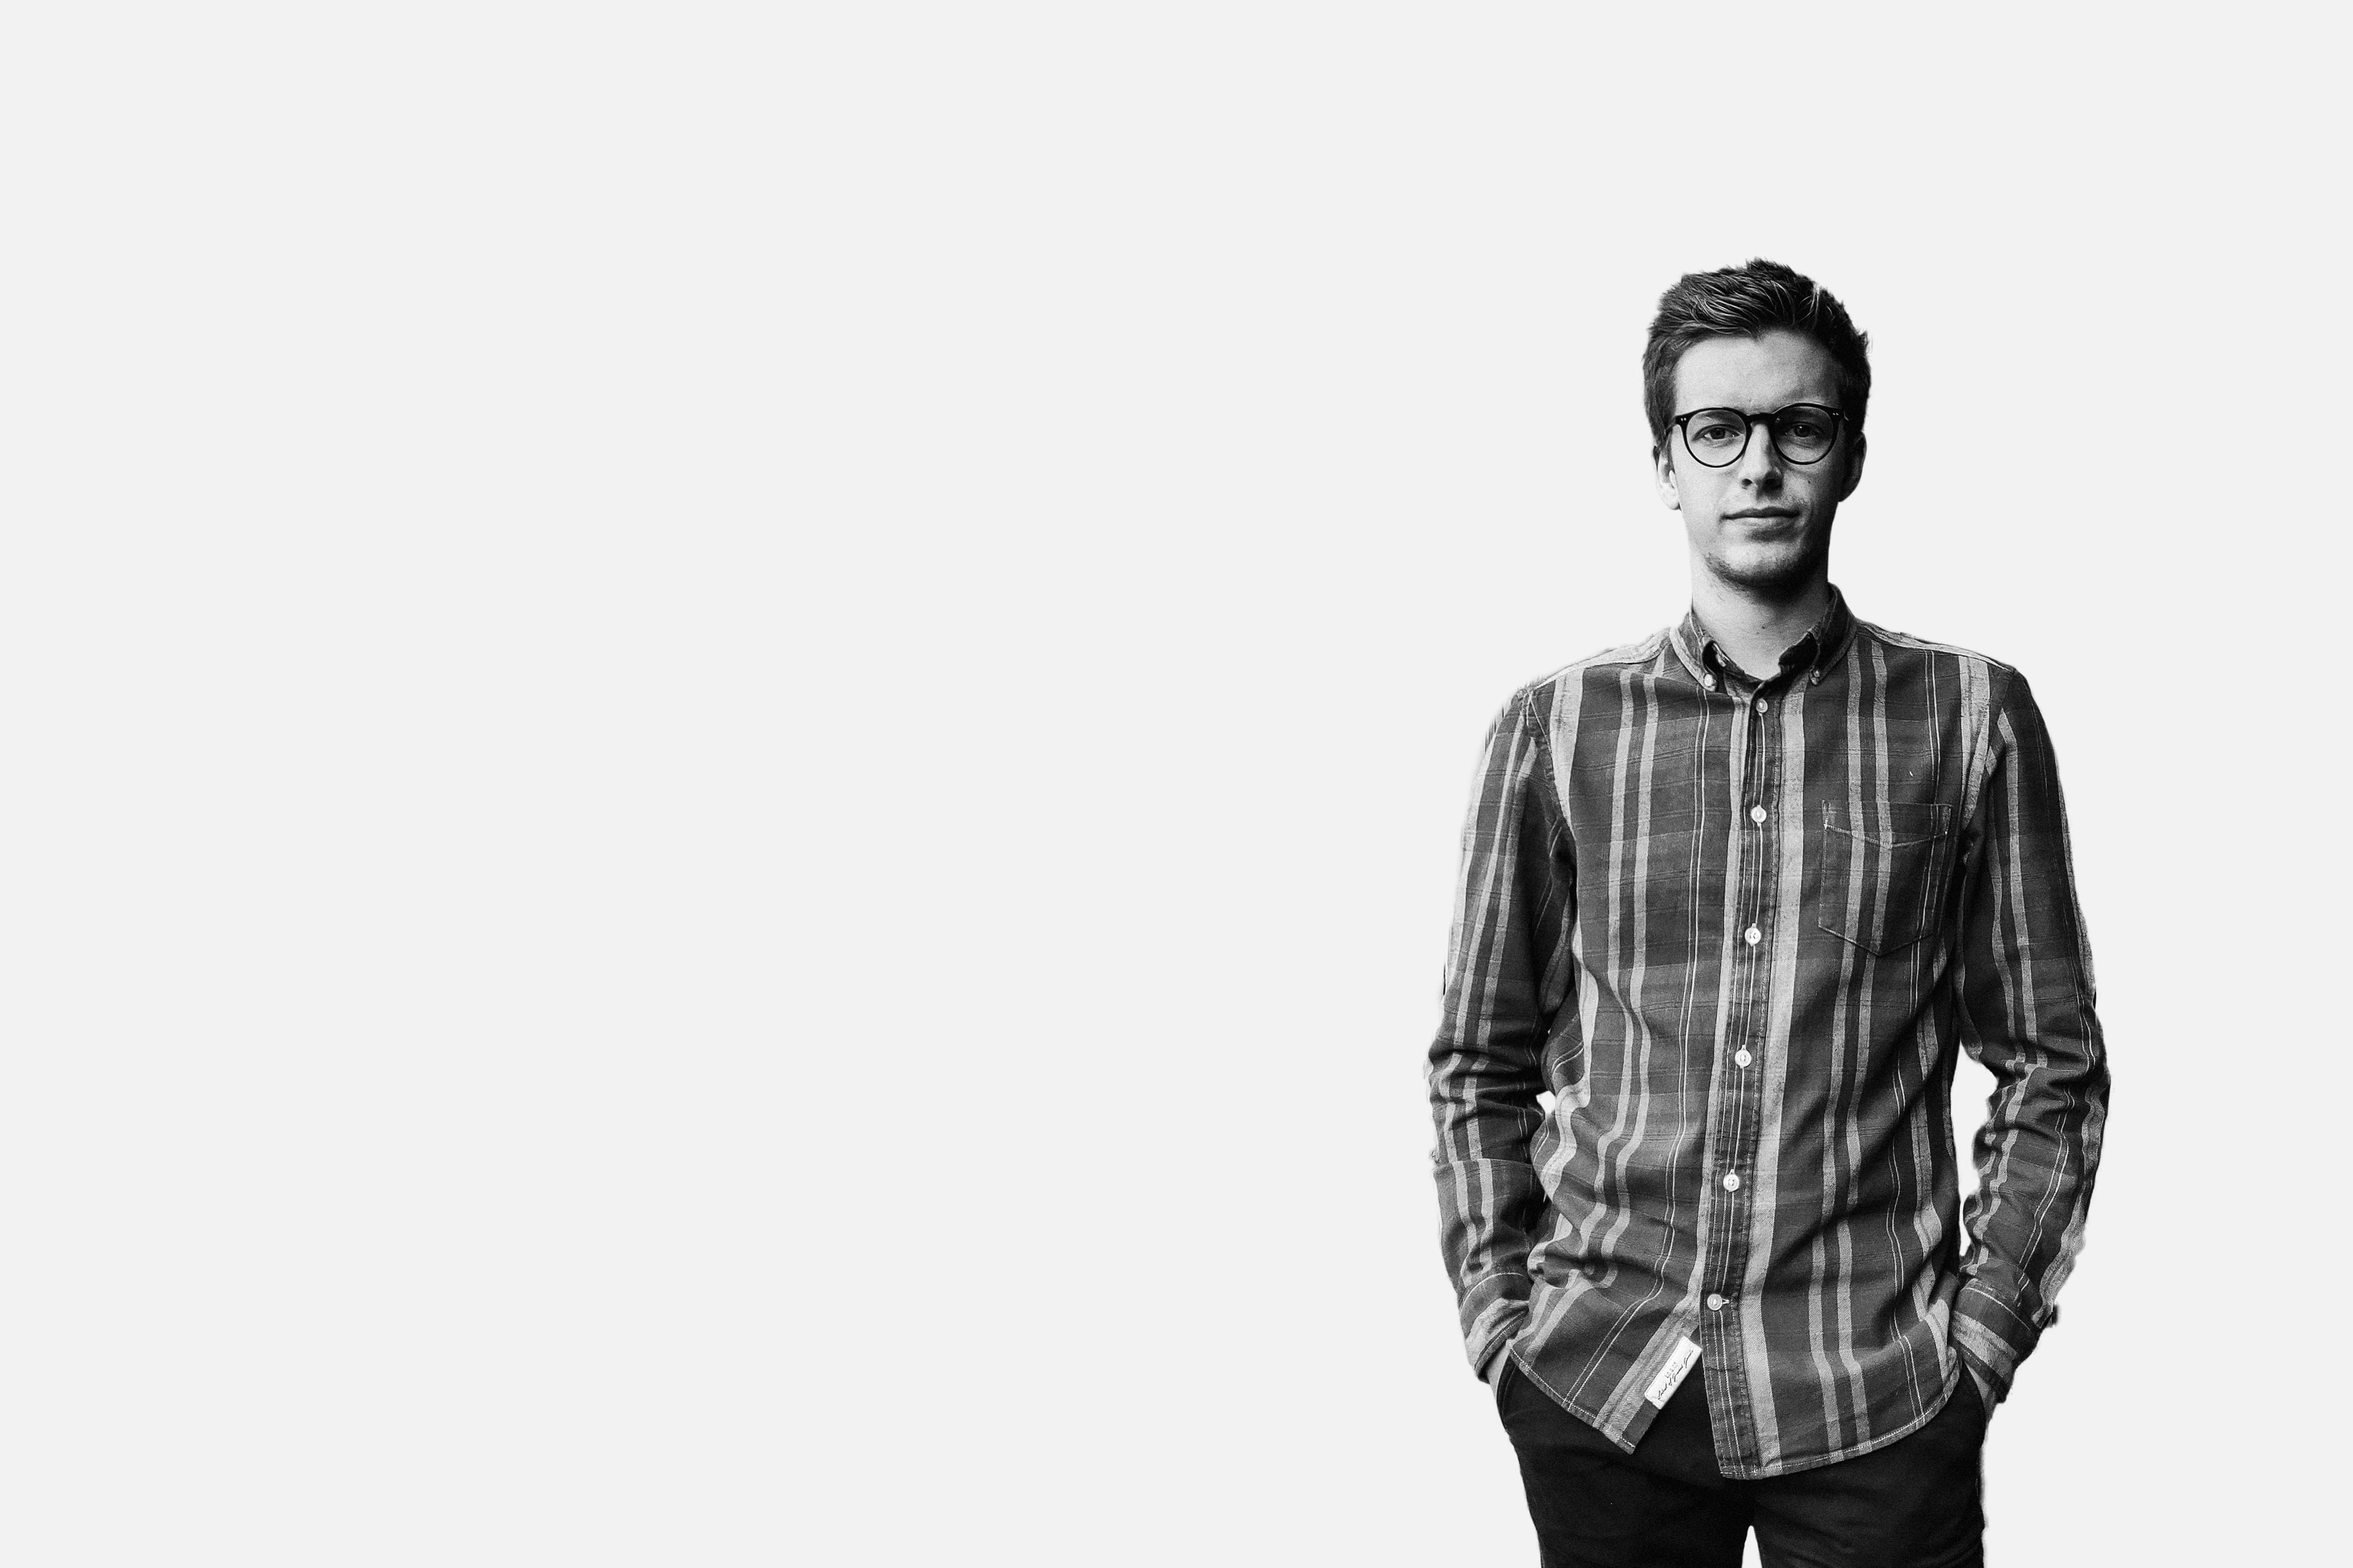
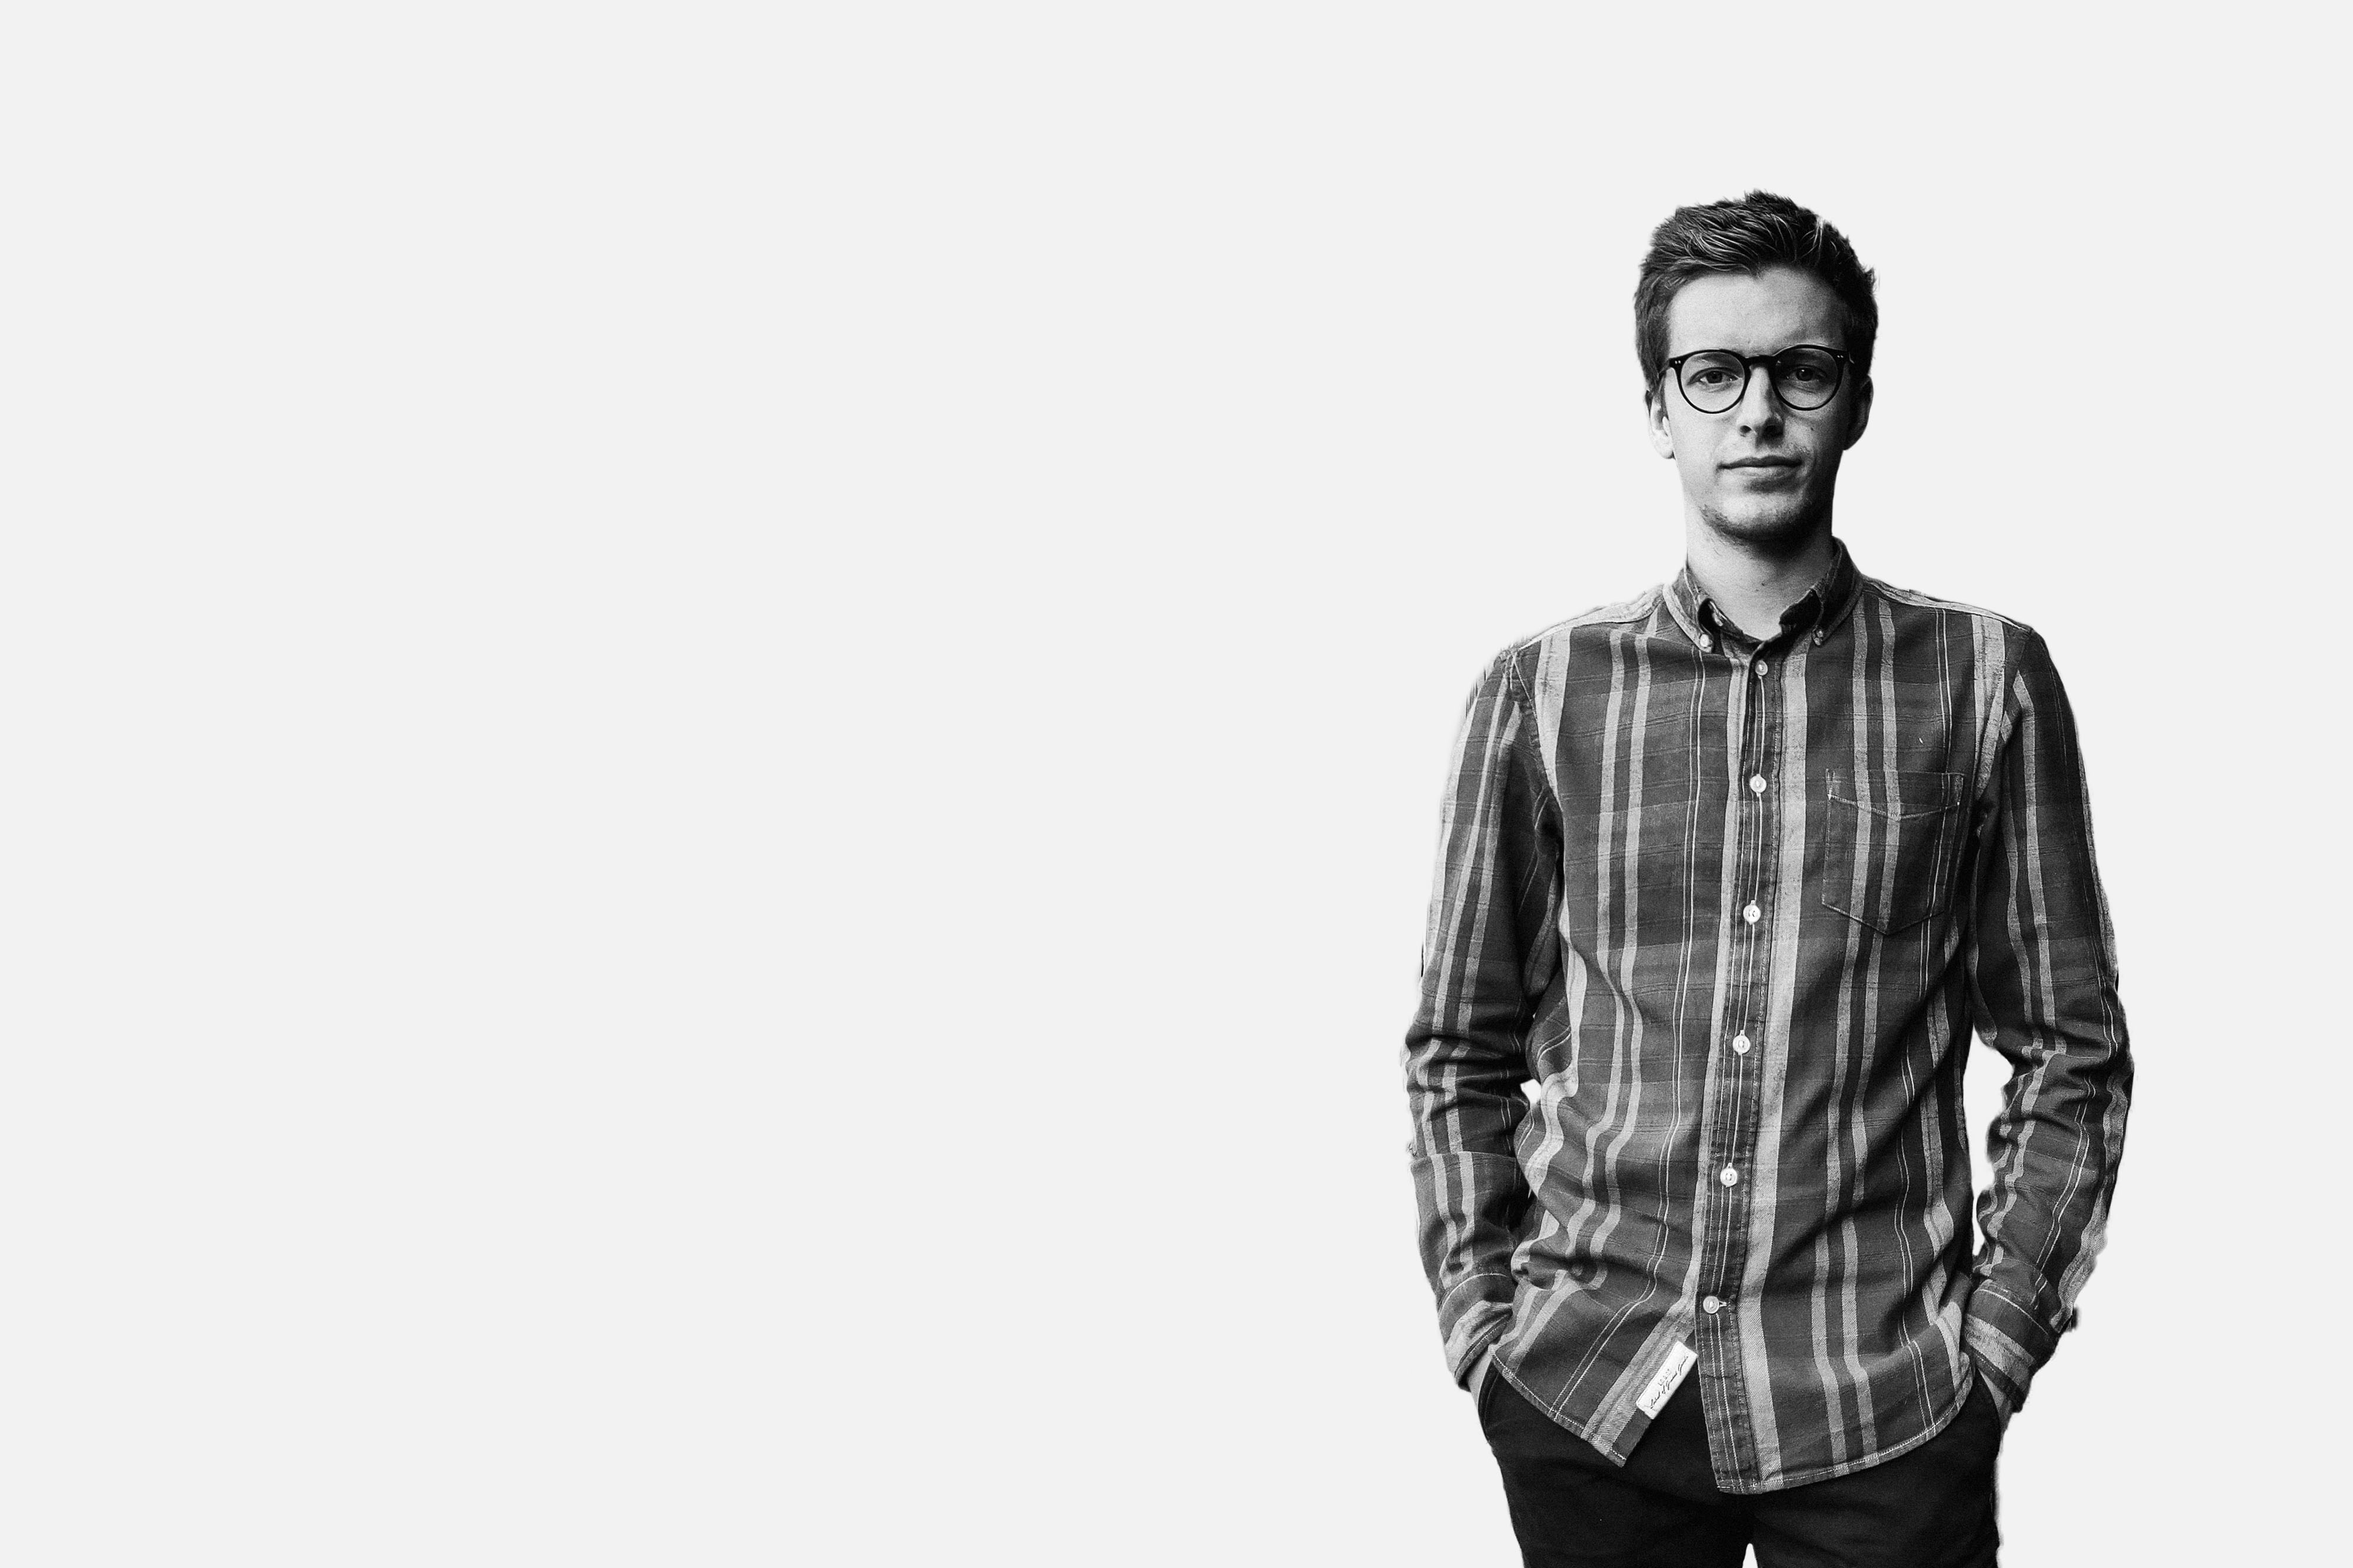
adjusted bg image

Changed region(s): [[0.5938, 0.1245, 0.9062, 1.0]]

diff --git a/src/Scenes/Landing/components/Presentation.js b/src/Scenes/Landing/components/Presentation.js
@@ -9,12 +9,7 @@ const useStyles = makeStyles(theme => ({
 		display: "flex",
 		justifyContent: "flex-start",
 		flexDirection: "column",
-		[theme.breakpoints.down("md")]: {
-			alignItems: "center"
-		},
-		[theme.breakpoints.up("md")]: {
-			alignItems: "flex-start"
-		}
+
 	},
 	h1classtop: {
 		fontFamily: "Roboto",
@@ -32,28 +27,22 @@ const useStyles = makeStyles(theme => ({
 			fontSize: 60
 		},
 		[theme.breakpoints.between("md", "md")]: {
-			flexGrow: 1,
-			alignSelf: "center",
-			position: "absolute",
+
 			fontSize: 50,
-			marginTop: "30px",
-			marginLeft: "auto"
+			marginTop: "50px",
+			marginLeft: "50px"
 		},
 		[theme.breakpoints.between("sm", "sm")]: {
-			flexGrow: 1,
-			alignItems: "flex-start",
-			position: "absolute",
+
 			fontSize: 40,
 			marginTop: "30px",
-			marginLeft: "auto"
+			marginLeft: "30px"
 		},
 		[theme.breakpoints.between("xs", "xs")]: {
-			flexGrow: 1,
-			alignItems: "flex-start",
-			position: "fixed",
+
 			fontSize: 25,
 			marginTop: "20px",
-			marginLeft: "auto"
+			marginLeft: "20px"
 		}
 	},
 	h1classbottom: {
@@ -71,28 +60,20 @@ const useStyles = makeStyles(theme => ({
 			fontSize: 60
 		},
 		[theme.breakpoints.between("md", "md")]: {
-			flexGrow: 1,
-			alignSelf: "center",
-			position: "absolute",
+			
 			fontSize: 50,
-			marginTop: "80px",
-			marginLeft: "auto"
+			marginLeft: "50px"
 		},
 		[theme.breakpoints.between("sm", "sm")]: {
-			flexGrow: 1,
-			alignItems: "flex-start",
-			position: "absolute",
+			
 			fontSize: 40,
-			marginTop: "70px",
-			marginLeft: "auto"
+			marginLeft: "30px"
 		},
 		[theme.breakpoints.between("xs", "xs")]: {
-			flexGrow: 1,
-			alignItems: "flex-start",
-			position: "fixed",
+			
 			fontSize: 25,
-			marginTop: "50px",
-			marginLeft: "auto"
+
+			marginLeft: "20px"
 		}
 	}
 }));

diff --git a/src/Scenes/Works/Works.js b/src/Scenes/Works/Works.js
@@ -70,7 +70,7 @@ export default function Presentation(props) {
 					<Grid container className={classes.root} spacing={4}>
 						<Grid item xs={12} sm={6} md={4}>
 							<WorkCard
-								image={require("./assets/tony-dinh-54T98veBp-c-unsplash.jpg")}
+								image={require("./assets/Pb_Bg2.jpg")}
 								imageTitle="Picture of myself"
 								date="2019"
 								title="Personal Website"
@@ -181,7 +181,7 @@ export default function Presentation(props) {
 					<Grid container className={classes.root} spacing={4}>
 						<Grid item xs={12} sm={6} md={4}>
 							<WorkCard
-								image={require("./assets/tony-dinh-54T98veBp-c-unsplash.jpg")}
+								image={require("./assets/Pb_Bg2.jpg")}
 								imageTitle="Picture of myself"
 								date="2019"
 								title="Site personnel"

diff --git a/src/Scenes/Landing/Landing.js b/src/Scenes/Landing/Landing.js
@@ -17,7 +17,7 @@ class Landing extends Component {
 					maxWidth: "1920px",
 					backgroundSize: "cover",
 					position: "fixed",
-					backgroundPosition: "right top"
+					backgroundPosition: "85% top",
 				}}
 			>
 				<Presentation Language={this.props.Language} />
